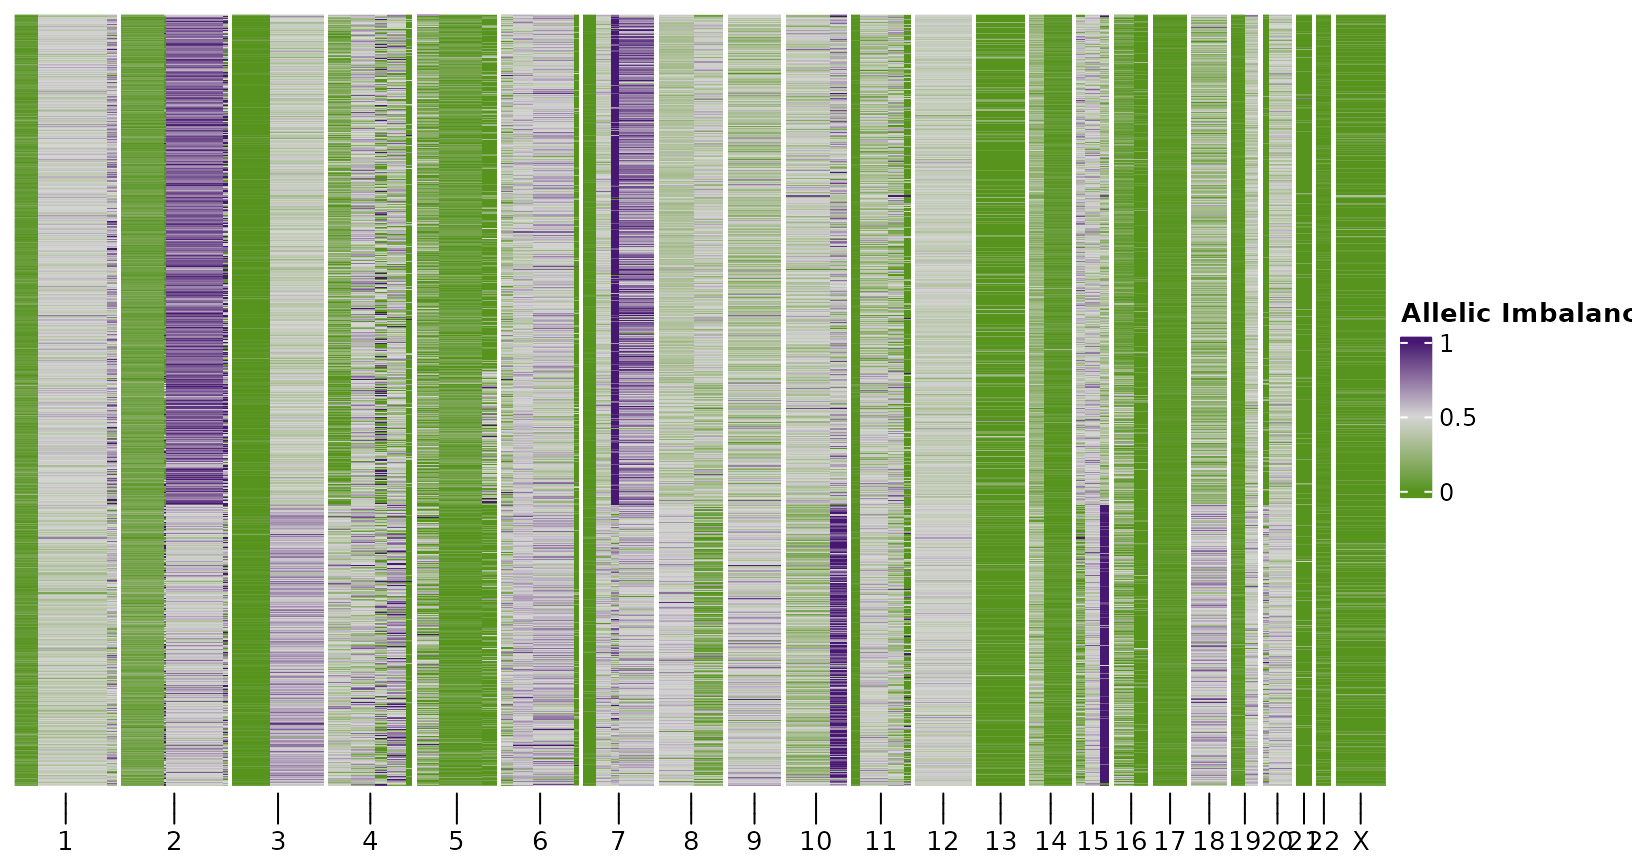
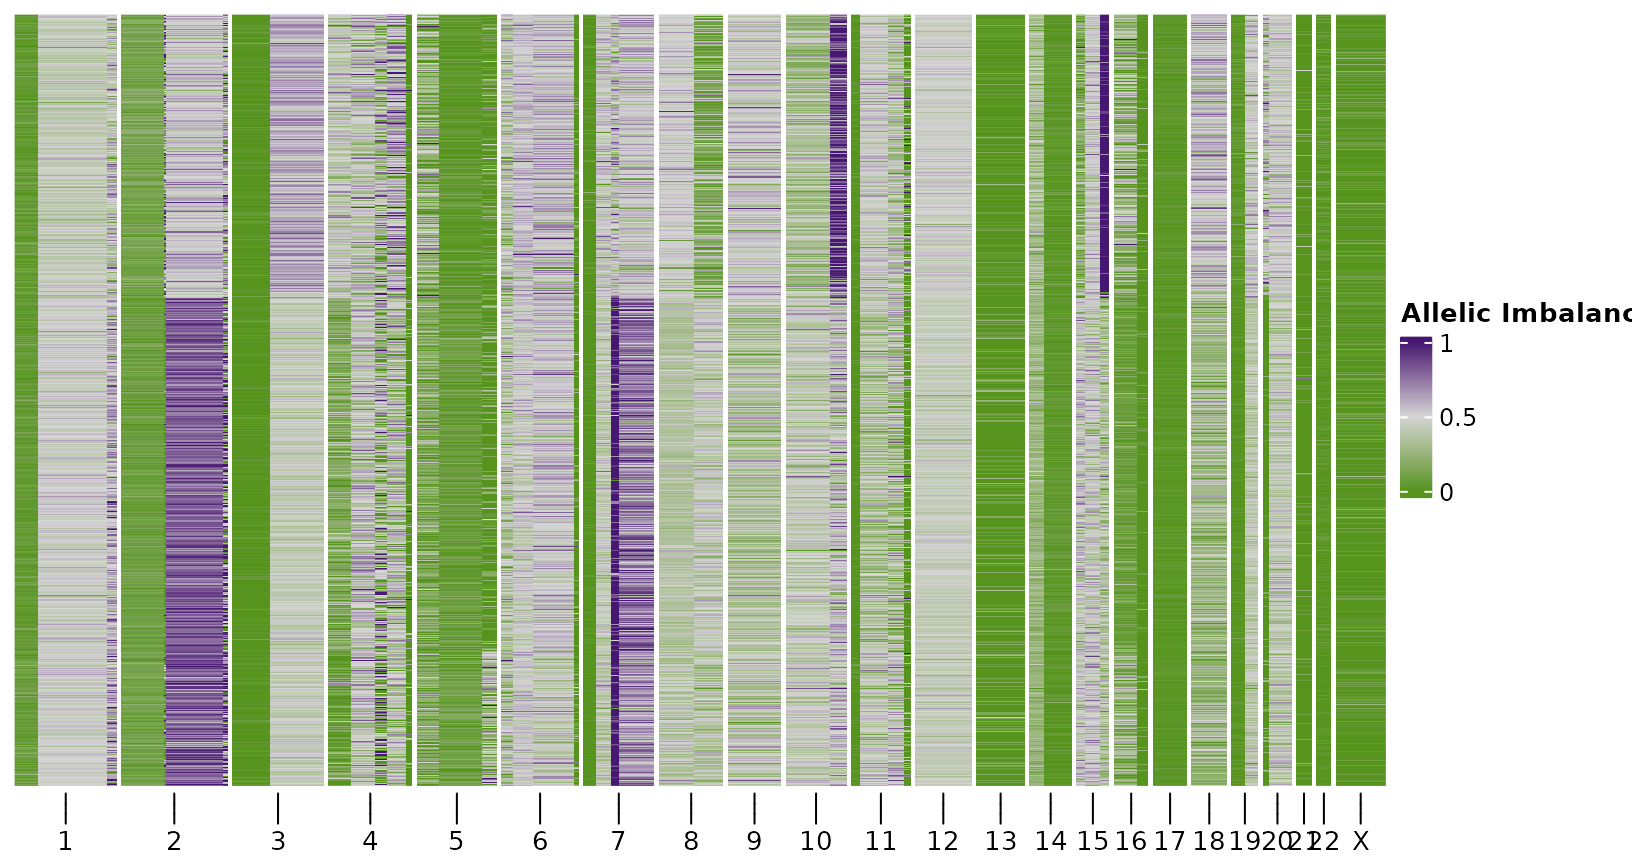
Deploying to gh-pages from @ shahcompbio/signals@5b920cafff4f6d90b8032cd6bad82d94e32e91c5 🚀

diff --git a/articles/BetaBinom.html b/articles/BetaBinom.html
@@ -119,13 +119,13 @@ of a binomial model for the HMM emission model.</p>
 <span><span class="co">#&gt; Average number of segments = 79</span></span>
 <span></span>
 <span><span class="va">hscn_bb</span> <span class="op">&lt;-</span> <span class="fu"><a href="../reference/callHaplotypeSpecificCN.html">callHaplotypeSpecificCN</a></span><span class="op">(</span><span class="va">CNbins</span>, <span class="va">haplotypes</span>, likelihood <span class="op">=</span> <span class="st">"betabinomial"</span><span class="op">)</span></span>
-<span><span class="co">#&gt; VGLM    linear loop  1 :  loglikelihood = -312940.5654</span></span>
-<span><span class="co">#&gt; VGLM    linear loop  2 :  loglikelihood = -308936.2647</span></span>
-<span><span class="co">#&gt; VGLM    linear loop  3 :  loglikelihood = -308369.9568</span></span>
-<span><span class="co">#&gt; VGLM    linear loop  4 :  loglikelihood = -308342.572</span></span>
-<span><span class="co">#&gt; VGLM    linear loop  5 :  loglikelihood = -308342.1479</span></span>
-<span><span class="co">#&gt; VGLM    linear loop  6 :  loglikelihood = -308342.1439</span></span>
-<span><span class="co">#&gt; VGLM    linear loop  7 :  loglikelihood = -308342.1439</span></span>
+<span><span class="co">#&gt; VGLM    linear loop  1 :  loglikelihood = -312870.8994</span></span>
+<span><span class="co">#&gt; VGLM    linear loop  2 :  loglikelihood = -308848.7468</span></span>
+<span><span class="co">#&gt; VGLM    linear loop  3 :  loglikelihood = -308277.117</span></span>
+<span><span class="co">#&gt; VGLM    linear loop  4 :  loglikelihood = -308249.4118</span></span>
+<span><span class="co">#&gt; VGLM    linear loop  5 :  loglikelihood = -308248.9876</span></span>
+<span><span class="co">#&gt; VGLM    linear loop  6 :  loglikelihood = -308248.9837</span></span>
+<span><span class="co">#&gt; VGLM    linear loop  7 :  loglikelihood = -308248.9837</span></span>
 <span></span>
 <span><span class="fu"><a href="https://rdrr.io/r/base/print.html" class="external-link">print</a></span><span class="op">(</span><span class="va">hscn_bb</span><span class="op">)</span></span>
 <span><span class="co">#&gt; Haplotype specific copy number object </span></span>
@@ -135,7 +135,7 @@ of a binomial model for the HMM emission model.</p>
 <span><span class="co">#&gt; Inferred LOH error rate: 0.018 </span></span>
 <span><span class="co">#&gt; Emission model for HMM: betabinomial </span></span>
 <span><span class="co">#&gt;   Inferred over dispersion: 0.0095</span></span>
-<span><span class="co">#&gt;   Tarones Z score: 178.663</span></span>
+<span><span class="co">#&gt;   Tarones Z score: 179.518</span></span>
 <span><span class="co">#&gt; Average distance from median to expected BAF = 0.0026 </span></span>
 <span><span class="co">#&gt; Average ploidy = 4 </span></span>
 <span><span class="co">#&gt; Average number of segments = 79</span></span></code></pre></div>
@@ -174,19 +174,19 @@ dataframes. We find for this data that the results are very similar.</p>
 <span><span class="fu"><a href="https://rdrr.io/r/base/print.html" class="external-link">print</a></span><span class="op">(</span><span class="fu"><a href="https://rdrr.io/r/base/dim.html" class="external-link">dim</a></span><span class="op">(</span><span class="va">hscn_bb</span><span class="op">$</span><span class="va">data</span><span class="op">)</span><span class="op">)</span></span>
 <span><span class="co">#&gt; [1] 1093750      20</span></span>
 <span><span class="fu"><a href="https://rdrr.io/r/base/all.equal.html" class="external-link">all.equal</a></span><span class="op">(</span><span class="fu">orderdf</span><span class="op">(</span><span class="va">hscn</span><span class="op">$</span><span class="va">data</span><span class="op">)</span>, <span class="fu">orderdf</span><span class="op">(</span><span class="va">hscn_bb</span><span class="op">$</span><span class="va">data</span><span class="op">)</span><span class="op">)</span></span>
-<span><span class="co">#&gt;  [1] "Component \"alleleA\": 'is.NA' value mismatch: 17503 in current 17489 in target"    </span></span>
-<span><span class="co">#&gt;  [2] "Component \"alleleB\": 'is.NA' value mismatch: 17503 in current 17489 in target"    </span></span>
-<span><span class="co">#&gt;  [3] "Component \"totalcounts\": 'is.NA' value mismatch: 17503 in current 17489 in target"</span></span>
-<span><span class="co">#&gt;  [4] "Component \"BAF\": 'is.NA' value mismatch: 17503 in current 17489 in target"        </span></span>
-<span><span class="co">#&gt;  [5] "Component \"state_min\": Mean relative difference: 0.6405551"                       </span></span>
-<span><span class="co">#&gt;  [6] "Component \"A\": Mean relative difference: 0.4121277"                               </span></span>
-<span><span class="co">#&gt;  [7] "Component \"B\": Mean relative difference: 0.5608086"                               </span></span>
-<span><span class="co">#&gt;  [8] "Component \"state_AS_phased\": 11037 string mismatches"                             </span></span>
-<span><span class="co">#&gt;  [9] "Component \"state_AS\": 3155 string mismatches"                                     </span></span>
-<span><span class="co">#&gt; [10] "Component \"LOH\": 2066 string mismatches"                                          </span></span>
-<span><span class="co">#&gt; [11] "Component \"phase\": 8046 string mismatches"                                        </span></span>
-<span><span class="co">#&gt; [12] "Component \"state_phase\": 9031 string mismatches"                                  </span></span>
-<span><span class="co">#&gt; [13] "Component \"state_BAF\": Mean relative difference: 0.7898649"</span></span></code></pre></div>
+<span><span class="co">#&gt;  [1] "Component \"alleleA\": 'is.NA' value mismatch: 17497 in current 17504 in target"    </span></span>
+<span><span class="co">#&gt;  [2] "Component \"alleleB\": 'is.NA' value mismatch: 17497 in current 17504 in target"    </span></span>
+<span><span class="co">#&gt;  [3] "Component \"totalcounts\": 'is.NA' value mismatch: 17497 in current 17504 in target"</span></span>
+<span><span class="co">#&gt;  [4] "Component \"BAF\": 'is.NA' value mismatch: 17497 in current 17504 in target"        </span></span>
+<span><span class="co">#&gt;  [5] "Component \"state_min\": Mean relative difference: 0.5938498"                       </span></span>
+<span><span class="co">#&gt;  [6] "Component \"A\": Mean relative difference: 0.376825"                                </span></span>
+<span><span class="co">#&gt;  [7] "Component \"B\": Mean relative difference: 0.4964575"                               </span></span>
+<span><span class="co">#&gt;  [8] "Component \"state_AS_phased\": 9234 string mismatches"                              </span></span>
+<span><span class="co">#&gt;  [9] "Component \"state_AS\": 2597 string mismatches"                                     </span></span>
+<span><span class="co">#&gt; [10] "Component \"LOH\": 1701 string mismatches"                                          </span></span>
+<span><span class="co">#&gt; [11] "Component \"phase\": 6290 string mismatches"                                        </span></span>
+<span><span class="co">#&gt; [12] "Component \"state_phase\": 7243 string mismatches"                                  </span></span>
+<span><span class="co">#&gt; [13] "Component \"state_BAF\": Mean relative difference: 0.692302"</span></span></code></pre></div>
 <p>Another thing we can check is the total number of segments identified
 by the HMM. Using the beta-binomial model should reduce the influence of
 any noisy regions and thus we might expect fewer segments. We do observe
@@ -197,9 +197,9 @@ fewer segments in the beta-binomial model.</p>
 <span><span class="va">segs_bb</span> <span class="op">&lt;-</span> <span class="fu">create_segments</span><span class="op">(</span><span class="va">hscn_bb</span><span class="op">$</span><span class="va">data</span>, field <span class="op">=</span> <span class="st">"state_AS_phased"</span><span class="op">)</span></span>
 <span></span>
 <span><span class="fu"><a href="https://rdrr.io/r/base/print.html" class="external-link">print</a></span><span class="op">(</span><span class="fu"><a href="https://rdrr.io/r/base/dim.html" class="external-link">dim</a></span><span class="op">(</span><span class="va">segs</span><span class="op">)</span><span class="op">)</span></span>
-<span><span class="co">#&gt; [1] 39007     5</span></span>
+<span><span class="co">#&gt; [1] 39101     5</span></span>
 <span><span class="fu"><a href="https://rdrr.io/r/base/print.html" class="external-link">print</a></span><span class="op">(</span><span class="fu"><a href="https://rdrr.io/r/base/dim.html" class="external-link">dim</a></span><span class="op">(</span><span class="va">segs_bb</span><span class="op">)</span><span class="op">)</span></span>
-<span><span class="co">#&gt; [1] 35479     5</span></span></code></pre></div>
+<span><span class="co">#&gt; [1] 35442     5</span></span></code></pre></div>
 </div>
 </div>
 <div class="section level2">

diff --git a/reference/callHaplotypeSpecificCN.html b/reference/callHaplotypeSpecificCN.html
@@ -337,8 +337,8 @@
 <span class="r-msg co"><span class="r-pr">#&gt;</span> Clustering cells using hdbscan...</span>
 <span class="r-msg co"><span class="r-pr">#&gt;</span> Identified 2 clusters</span>
 <span class="r-msg co"><span class="r-pr">#&gt;</span> Distribution of clusters:</span>
-<span class="r-msg co"><span class="r-pr">#&gt;</span>   Cluster A: 24</span>
-<span class="r-msg co"><span class="r-pr">#&gt;</span>   Cluster B: 16</span>
+<span class="r-msg co"><span class="r-pr">#&gt;</span>   Cluster A: 20</span>
+<span class="r-msg co"><span class="r-pr">#&gt;</span>   Cluster B: 20</span>
 <span class="r-msg co"><span class="r-pr">#&gt;</span> Clustering chromosome 4</span>
 <span class="r-msg co"><span class="r-pr">#&gt;</span> Creating CN matrix...</span>
 <span class="r-msg co"><span class="r-pr">#&gt;</span> Calculating UMAP dimensionality reduction...</span>
@@ -405,8 +405,8 @@
 <span class="r-msg co"><span class="r-pr">#&gt;</span> Join phased haplotypes...</span>
 <span class="r-msg co"><span class="r-pr">#&gt;</span> Reorder haplotypes based on phase...</span>
 <span class="r-msg co"><span class="r-pr">#&gt;</span> Total number of cells after removing cells with &lt; 100 bins: 40</span>
-<span class="r-msg co"><span class="r-pr">#&gt;</span> Average distance from median to expected BAF = 0.0054</span>
-<span class="r-msg co"><span class="r-pr">#&gt;</span> Average distance from median to expected BAF = 0.0054</span>
+<span class="r-msg co"><span class="r-pr">#&gt;</span> Average distance from median to expected BAF = 0.0055</span>
+<span class="r-msg co"><span class="r-pr">#&gt;</span> Average distance from median to expected BAF = 0.0055</span>
 </code></pre></div>
     </div>
   </div>

diff --git a/articles/ASCN-RNA.html b/articles/ASCN-RNA.html
@@ -307,7 +307,7 @@ shown below.</p>
 <span><span class="co">#&gt; [11] "BAF-13-1-110300000"         "BAF-14-1-54000000"         </span></span>
 <span><span class="co">#&gt; [13] "BAF-14-54000001-104000000"  "BAF-15-1-43000000"         </span></span>
 <span><span class="co">#&gt; [15] "BAF-15-43000001-77000000"   "BAF-15-77000001-98500000"  </span></span>
-<span><span class="co">#&gt; [17] "BAF-16-1-58000000"          "BAF-16-58000001-88700000"  </span></span>
+<span><span class="co">#&gt; [17] "BAF-16-1-64500000"          "BAF-16-64500001-88700000"  </span></span>
 <span><span class="co">#&gt; [19] "BAF-17-1-75300000"          "BAF-18-1-73100000"         </span></span>
 <span><span class="co">#&gt; [21] "BAF-19-1-28000000"          "BAF-19-28000001-56300000"  </span></span>
 <span><span class="co">#&gt; [23] "BAF-2-1-88500000"           "BAF-2-225500001-237300000" </span></span>
